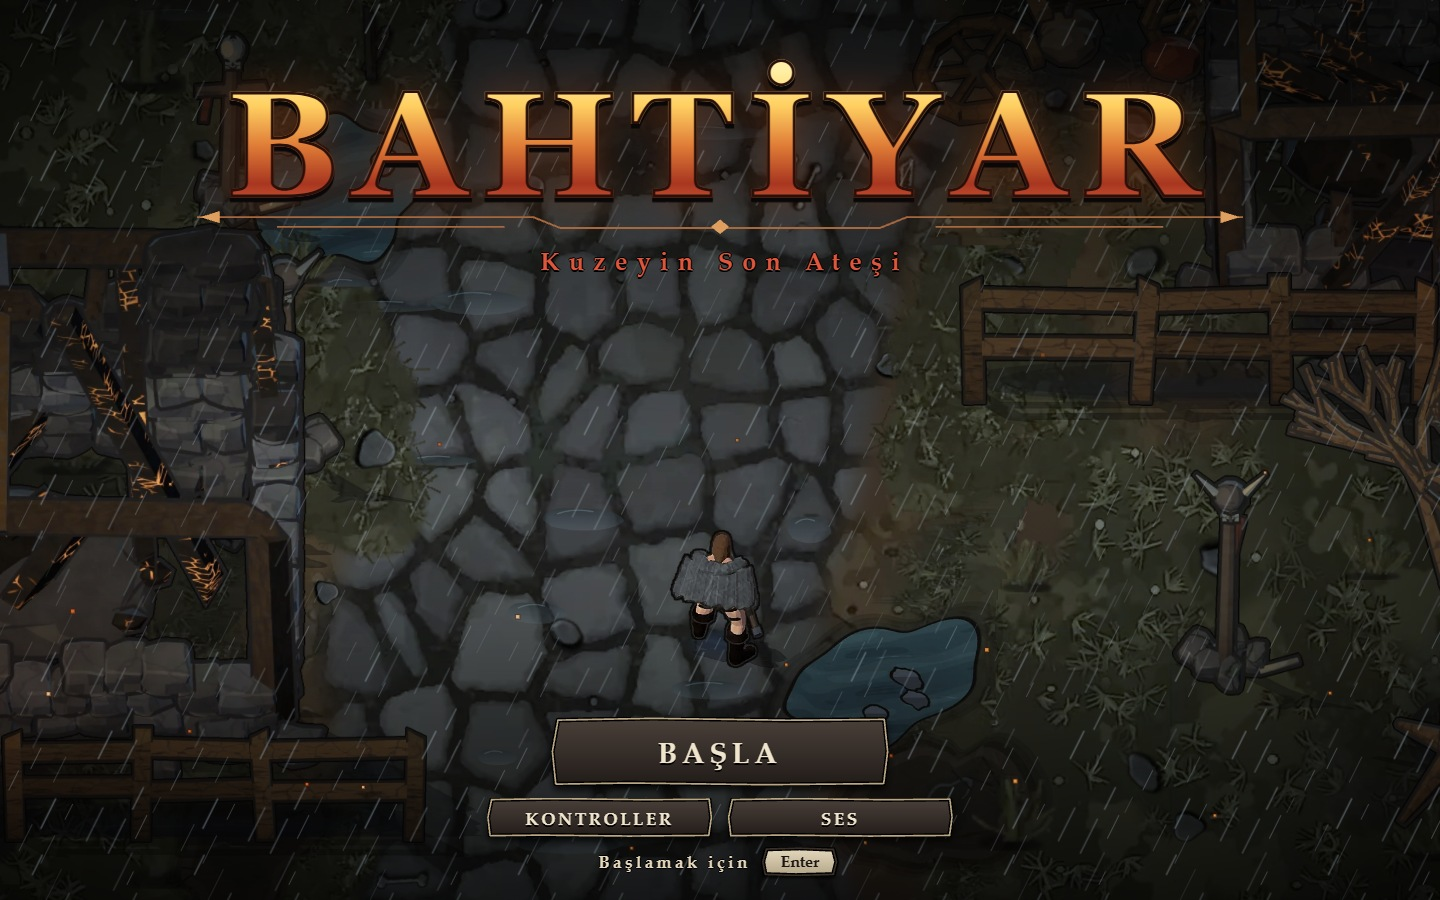
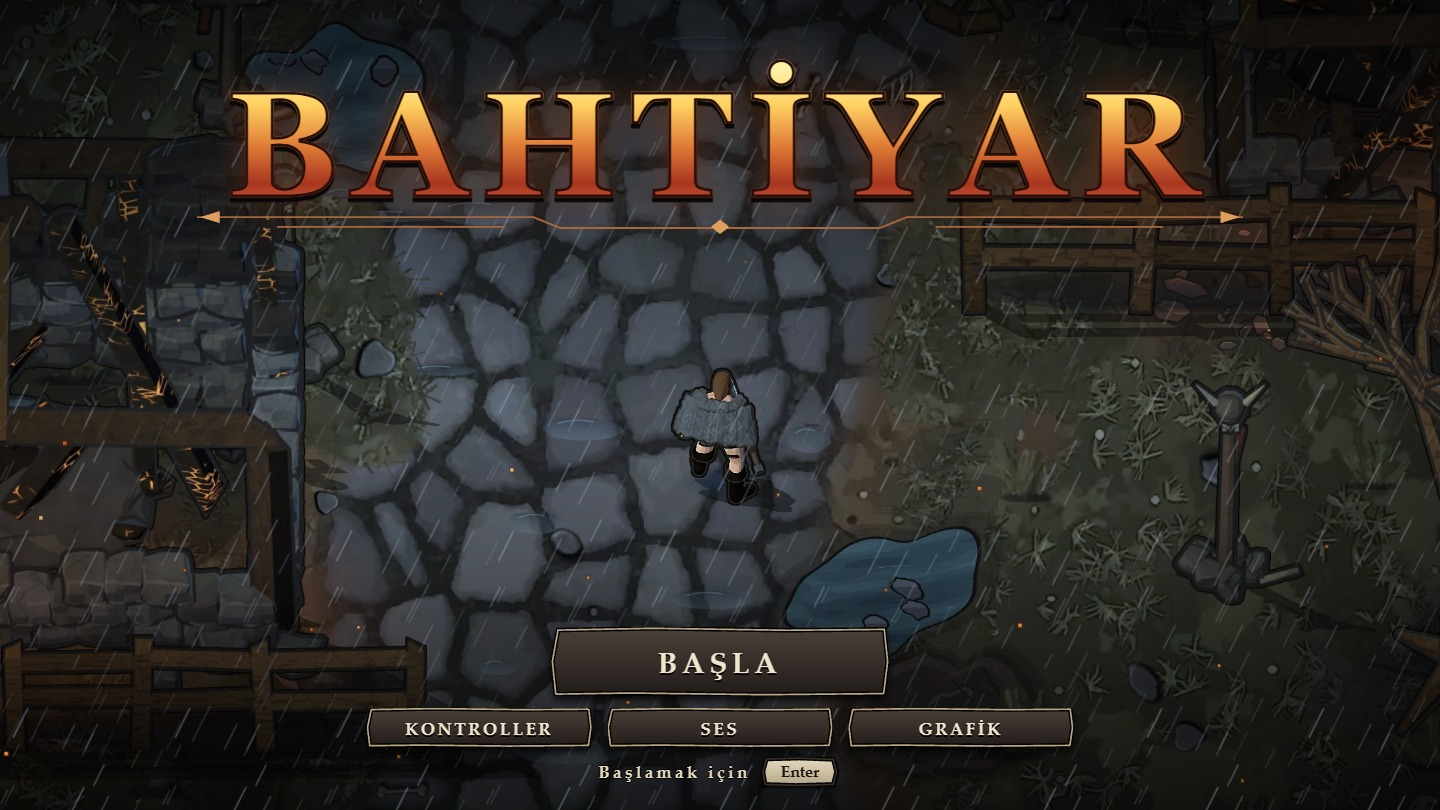
Bahtiyar başlığı ve molada önsöz haritası

diff --git a/src/arayuz.js b/src/arayuz.js
@@ -18,15 +18,15 @@
   var HIKAYE_METIN = {
     1: {
       baslik: 'BÖLÜM I — YANIK KÖY',
-      metin: 'Bahtiyar geceyi geçirmek için köye uğradı. Yıkık kilisenin önünde, küllere basmış çıplak ayakların izleri tekerlek izlerine karışıyordu. İkisi de Gormagul’un tuttuğu Kemik Çukuru’na doğru gidiyordu.'
+      metin: 'Bahtiyar, kervanlara kış geçitlerinde yol gösteren bir savaşçıydı. Kafileyle Yanık Köy’de buluşacak, onları dağın öte yanına geçirecekti. Vardığında evler yanmış, meydan boştu. Yıkık kilisenin önündeki taze tekerlek izleri Gormagul’un tuttuğu Kemik Çukuru’na uzanıyordu.'
     },
     2: {
       baslik: 'BÖLÜM II — KÜL GEÇİDİ',
-      metin: "Tekerlek izleri Vargor’un madenine kadar uzanıyordu. Ocak başında, kapıları açık kafesler duruyordu. Kafile buradan geçmişti. Son arabalar, demir daha soğumadan kuzey yoluna çıkmıştı."
+      metin: 'Kemik Çukuru’ndan çıkan izler Vargor’un madenine kadar uzanıyordu. Ocakların yanında açık kafesler, taşta sürüklenmiş zincir izleri vardı. Kafileyi taşıyan arabalar kuzey yoluna çıkmıştı. O yolun sonunda Ayaz Hisarı vardı.'
     },
     3: {
       baslik: 'BÖLÜM III — AYAZ HİSARI',
-      metin: 'Köylüler hisarın avlusunda zincire vurulmuştu. Tepedeki işaret ateşi, Kül Sürüsü’nün kış ordusuna geçidin açık olduğunu bildiriyordu. Bahtiyar’ın, ordu dağa varmadan kafesleri açıp ateşi söndürmesi gerekiyordu.'
+      metin: 'Bahtiyar kafileyi hisarın avlusunda buldu. Sağ kalanlar Skarn’ın askerleri arasında zincire vurulmuştu. Gün ağardığında arabalar kuzeye yola çıkacaktı. Bahtiyar’ın önce tutsakları hisardan sağ çıkarması gerekiyordu.'
     }
   };
   var hikayeGorulen = {};
@@ -430,7 +430,6 @@
         '<path d="M33 143h223l18 9h212l18-9h223 M86 151h151m286 0h151" stroke="#a66940"/>' +
         '<path d="M35 143l13-5v10zm690 0l-13-5v10zM374 151l6-6 6 6-6 6z" fill="#e0a060"/>' +
       '</svg><span>BAHTİYAR</span>');
-    $('div', 'ar-alt-ad', bu, 'Kuzeyin Son Ateşi');
     var m = $('div', 'ar-menu', b);
     var bKontrol, bSes, bGrafik;
     bBasla = dugme(m, 'BAŞLA', basla, 'ana');
@@ -457,6 +456,7 @@
     var molaGovde = $('div', 'ar-mola-govde', molaKart);
     var pm = $('div', 'ar-menu ar-mola-menu', molaGovde), mKontrol, mSes, mGrafik;
     dugme(pm, 'DEVAM ET', function () { durumYap('oyun'); }, 'ana');
+    haritaDugmesi(pm);
     dugme(pm, 'BÖLÜMÜ YENİDEN BAŞLAT', yenidenBasla);
     dugme(pm, 'OYUNUN BAŞINA DÖN', function () { el.baslangicOnayi.showModal(); });
     var molaSekmeler = $('div', 'ar-mola-sekmeler', pm);
@@ -468,6 +468,7 @@
     panelDugmesi(mSes, molaSesDugme, 'ar-mola-ses');
     panelDugmesi(mGrafik, molaGrafikDugme, 'ar-mola-grafik');
     perdeler.mola._paneller = [mKontrol, mSes, mGrafik];
+    haritaKur(kok.parentNode);
 
     el.baslangicOnayi = $('dialog', 'ar-baslangic-onay', kok.parentNode);
     el.baslangicOnayi.setAttribute('aria-labelledby', 'ar-baslangic-baslik');
@@ -586,6 +587,98 @@
   function yenidenBasla() {
     sesiAc();
     if (O() && O().yenidenBasla) O().yenidenBasla(); else durumYap('oyun');
+  }
+
+  var HARITA_ANAHTAR = 'barbar-harita-onsoz';
+  var haritaTamamlanan = 0, haritaSecili = 1;
+  var HARITA_DURAK = [
+    { x: 25, y: 73.8, sira: 'I', goruntu: 'yanik-koy' },
+    { x: 45.5, y: 54.8, sira: 'II', goruntu: 'kul-gecidi' },
+    { x: 78.5, y: 29.5, sira: 'III', goruntu: 'ayaz-hisari' }
+  ];
+  function haritaDugmesi(ebeveyn) {
+    var b = dugme(ebeveyn, 'HARİTA VE HİKÂYE', haritaAc);
+    b.setAttribute('aria-haspopup', 'dialog');
+    b.setAttribute('aria-controls', 'ar-onsoz-harita');
+  }
+  function haritaKur(ebeveyn) {
+    try {
+      var kayit = Number(localStorage.getItem(HARITA_ANAHTAR));
+      if (Number.isInteger(kayit) && kayit >= 0 && kayit <= 3) haritaTamamlanan = kayit;
+    } catch (e) { /* kayıt isteğe bağlı */ }
+    var pencere = el.harita = $('dialog', 'ar-harita', ebeveyn);
+    pencere.id = 'ar-onsoz-harita';
+    pencere.setAttribute('aria-labelledby', 'ar-harita-baslik');
+    var baslik = $('header', 'ar-harita-ust', pencere);
+    var basliklar = $('div', '', baslik);
+    $('span', 'ar-harita-ust-yazi', basliklar, 'ÖNSÖZ HARİTASI');
+    $('h2', '', basliklar, 'Kuzeyin Son Ateşi').id = 'ar-harita-baslik';
+    el.haritaKapat = dugme(baslik, 'KAPAT', function () { pencere.close(); }, 'kucuk');
+    var icerik = $('div', 'ar-harita-icerik', pencere);
+    var arazi = $('div', 'ar-harita-arazi', icerik);
+    $('div', 'ar-harita-kuzey', arazi, 'K<br>↑').setAttribute('aria-hidden', 'true');
+    var yol = $('div', 'ar-harita-yol', arazi,
+      '<svg viewBox="0 0 100 100" preserveAspectRatio="none">' +
+      '<path d="M25 73.8 C28.5 72.7 32.5 73.8 34.2 70.8 S32.4 65.7 31.3 63.3 S34 58.6 37.4 57.3 S42.8 55.7 45.5 54.8"/>' +
+      '<path d="M45.5 54.8 C51 53.7 53 52.1 57.8 52.2 S61 48.9 63.4 47.9 S74 43.8 72.2 41.4 S66.9 37.7 70.8 36.1 S77.4 34.8 77.4 32.6 S77.2 31.1 78.5 29.5"/></svg>');
+    yol.setAttribute('aria-hidden', 'true');
+    el.haritaYol = yol.querySelectorAll('path');
+    el.haritaDuraklar = HARITA_DURAK.map(function (durak, i) {
+      var b = $('button', 'ar-harita-durak', arazi);
+      b.type = 'button';
+      b.style.left = durak.x + '%';
+      b.style.top = durak.y + '%';
+      b.setAttribute('aria-controls', 'ar-harita-kart');
+      $('span', 'ar-harita-isaret', b, durak.sira).setAttribute('aria-hidden', 'true');
+      $('span', 'ar-harita-etiket', b, BOLUM_ADI[i + 1]);
+      b.addEventListener('click', function () { haritaSecili = i + 1; haritaYaz(); });
+      return b;
+    });
+    var kart = el.haritaKart = $('article', 'ar-harita-kart', icerik);
+    kart.id = 'ar-harita-kart';
+    el.haritaGorsel = $('img', '', kart);
+    el.haritaGorsel.alt = '';
+    el.haritaDurum = $('span', 'ar-harita-durum', kart);
+    var metin = $('div', 'ar-harita-metin', kart);
+    metin.setAttribute('aria-live', 'polite');
+    el.haritaAd = $('h3', '', metin);
+    el.haritaMetin = $('p', '', metin);
+    el.haritaIlerleme = $('div', 'ar-harita-ilerleme', kart);
+  }
+  function haritaAc() {
+    if (!el.harita || el.harita.open) return;
+    var sonDurak = Math.min(3, haritaTamamlanan + 1);
+    haritaSecili = durum() === 'mola' ? Math.min(aktifBolum(), sonDurak) : sonDurak;
+    haritaYaz();
+    GIRDI.temizle();
+    el.harita.showModal();
+    el.haritaDuraklar[haritaSecili - 1].focus({ preventScroll: true });
+  }
+  function haritaYaz() {
+    var sonDurak = Math.min(3, haritaTamamlanan + 1);
+    el.haritaDuraklar.forEach(function (b, i) {
+      var no = i + 1, kilitli = no > sonDurak, bitti = no <= haritaTamamlanan;
+      b.classList.toggle('kilitli', kilitli);
+      b.setAttribute('aria-pressed', String(no === haritaSecili));
+      b.setAttribute('aria-label', BOLUM_ADI[no] + (kilitli ? ', kilitli' : bitti ? ', tamamlandı' : ', açık'));
+      b.firstElementChild.textContent = bitti ? '✓' : HARITA_DURAK[i].sira;
+    });
+    el.haritaYol.forEach(function (p, i) { p.classList.toggle('kilitli', i >= haritaTamamlanan); });
+    var kilitli = haritaSecili > sonDurak;
+    var gorsel = 'ekran/' + HARITA_DURAK[haritaSecili - 1].goruntu + '.jpg';
+    if (el.haritaGorsel.getAttribute('src') !== gorsel) el.haritaGorsel.src = gorsel;
+    el.haritaKart.classList.toggle('kilitli', kilitli);
+    el.haritaDurum.textContent = kilitli ? 'Kilitli' : haritaSecili <= haritaTamamlanan ? 'Tamamlandı' : 'Açık';
+    el.haritaAd.textContent = BOLUM_ADI[haritaSecili];
+    el.haritaMetin.textContent = kilitli
+      ? 'Önce ' + BOLUM_ADI[haritaSecili - 1] + ' bölümünü tamamla.'
+      : HIKAYE_METIN[haritaSecili].metin;
+    el.haritaIlerleme.textContent = haritaTamamlanan + ' / 3 bölüm tamamlandı';
+  }
+  function haritaBolumTamamla(no) {
+    if (O().atla || no <= haritaTamamlanan) return;
+    haritaTamamlanan = no;
+    try { localStorage.setItem(HARITA_ANAHTAR, String(no)); } catch (e) { /* kayıt isteğe bağlı */ }
   }
 
   function hikayeYetenekYaz(no) {
@@ -1143,6 +1236,7 @@
     if (!kok) return;
     if (d === sonDurum) return;
     var onceki = sonDurum; sonDurum = d;
+    if (el.harita?.open && d !== 'baslik' && d !== 'mola') el.harita.close();
     document.body.className = document.body.className.replace(/\bd-\w+/g, '').trim() + ' d-' + d;
     Object.keys(perdeler).forEach(function (k) {
       var g = k !== d;
@@ -1177,6 +1271,7 @@
       ozetYaz(el.olduOzet, os);
     }
     if (d === 'kazandi') {
+      haritaBolumTamamla(aktifBolum());
       zaferHazirla();
       var zs = [[sureYazi(ist.sure), 'Süre'], [ist.oldurme, 'Öldürülen'], [Math.round(ist.hasar), 'Alınan hasar']];
       if (ist.enSeri >= 3) zs.push(['×' + ist.enSeri, 'En uzun seri']);
@@ -1192,6 +1287,11 @@
   /* ───────── klavye ve hikâye geçişi ───────── */
   var sonKlavye = 0;
   document.addEventListener('keydown', function (e) {
+    if (el.harita?.open) {
+      e.stopImmediatePropagation();
+      if (e.key === 'Escape') { e.preventDefault(); el.harita.close(); }
+      return;
+    }
     if (tusSecimi && e.code !== 'Tab') {
       e.preventDefault(); e.stopImmediatePropagation();
       if (e.repeat || e.metaKey || e.ctrlKey || e.altKey) return;
@@ -1278,7 +1378,7 @@
       } else secim.yazi.textContent = 'Yön tuşları hareket ve menü için ayrıldı.';
       return;
     }
-    var d = durum(), pencere = el.baslangicOnayi;
+    var d = durum(), pencere = el.harita.open ? el.harita : el.baslangicOnayi;
     if (no === 1 || no === 9 || (d === 'mola' && GIRDI.padEylemi(no) === 'esc' && no > 1 && no < 12)) {
       if (pencere.open) { pencere.close(); return; }
       var acik = (perdeler[d]?._paneller || []).find(function (panel) { return !panel.classList.contains('gizli'); });

diff --git a/style.css b/style.css
@@ -55,9 +55,8 @@ body.d-oyun, body.d-oyun #sahne, body.d-oyun canvas {
   font: 700 clamp(34px, 8vw, 68px)/1 Georgia, serif;
   letter-spacing: .105em;
 }
-.acilis-kart > span { display: block; font-size: clamp(14px, 3.5vw, 20px); color: #cb9478; }
 .acilis-kart .acilis-durum {
-  position: relative; margin: 23px auto 0; padding-top: 13px;
+  display: block; position: relative; margin: 23px auto 0; padding-top: 13px;
   color: #cabba4; font-size: 14px;
 }
 .acilis-durum::before {
@@ -214,7 +213,6 @@ body.d-oyun, body.d-oyun #sahne, body.d-oyun canvas {
   position: absolute; inset: -7% -7%; width: 114%; height: 114%;
   pointer-events: none;
 }
-.ar-perde.baslik .ar-alt-ad { animation: ar-belir .8s ease-out .6s both; }
 /* yükselen közler: keskin küçük kareler, yalnız kaydırma + saydamlık */
 .ar-koz { position: absolute; inset: 0; overflow: hidden; pointer-events: none; }
 .ar-koz i {
@@ -238,10 +236,6 @@ body.d-oyun, body.d-oyun #sahne, body.d-oyun canvas {
   40% { transform: translate3d(-16px, -240px, 0); }
   75% { transform: translate3d(8px, -440px, 0); opacity: .6; }
   100% { transform: translate3d(-4px, -600px, 0); opacity: 0; }
-}
-.ar-alt-ad {
-  margin-top: 16px; font-size: 22px; font-weight: bold; letter-spacing: .38em; padding-left: .38em; color: #e0563c;
-  text-shadow: 0 2px 0 #000, 1px 0 0 #000, -1px 0 0 #000, 0 -1px 0 #000;
 }
 .ar-kilic { width: 520px; height: 26px; margin: 10px 0 14px; }
 .ar-menu { display: flex; flex-direction: column; align-items: center; }
@@ -897,3 +891,57 @@ body.d-mola .ar-uyari, body.d-mola .ar-ipucu, body.d-mola .ar-hikaye, body.d-mol
 .ar-pad-baglanti { margin: 0 0 3px; color: #efd5a5; font-size: 14px; }
 .ar-pad-baglanti + .ar-tus-fare { margin: 0 0 9px; }
 .kontrolcu-kullaniliyor #arayuz button:focus { outline: 2px solid #ecc790; outline-offset: 2px; }
+
+/* Önsöz haritası */
+.ar-harita {
+  width: min(1320px, calc(100vw - 34px)); max-width: none;
+  max-height: calc(100dvh - 28px); margin: auto; padding: clamp(10px, 1.6vw, 22px);
+  color: #f0e1c8; font-family: var(--yazi);
+  border: 1px solid #a88359; border-radius: 4px;
+  background: linear-gradient(140deg, #33251f, #181413 66%);
+  box-shadow: 0 16px 60px #000c, inset 0 0 0 4px #231913;
+  overflow: auto; pointer-events: auto;
+}
+.ar-harita::backdrop { background: #0a0807db; }
+.ar-harita-ust { display: flex; align-items: center; justify-content: space-between; gap: 12px; padding: 1px 1px 14px; }
+.ar-harita-ust-yazi, .ar-harita-durum { color: #e8aa77; font-weight: bold; letter-spacing: .14em; font-size: 12px; text-transform: uppercase; }
+.ar-harita-ust h2 { font-size: clamp(24px, 3vw, 42px); margin: 4px 0 0; font-weight: normal; text-shadow: 0 2px 2px #130d0a; }
+.ar-harita-ust .ar-dugme { width: auto; min-width: 80px; margin: 0; padding: 8px 13px; background: linear-gradient(#523427, #2c1d18); border: 1px solid #a17d5a; }
+.ar-harita-ust .ar-dugme:hover { background: #673521; }
+.ar-harita-icerik { display: grid; grid-template-columns: minmax(0, 2.4fr) minmax(245px, 1fr); gap: 13px; }
+.ar-harita-arazi { position: relative; aspect-ratio: 3/2; align-self: start; overflow: hidden;
+  background: #2b2520 url("varlik/onsoz-haritasi.webp") center / 100% 100% no-repeat;
+  border: 1px solid #947553; box-shadow: inset 0 0 0 3px #38291db0, inset 0 0 45px #17110ec4; }
+.ar-harita-yol, .ar-harita-yol svg { position: absolute; inset: 0; width: 100%; height: 100%; pointer-events: none; }
+.ar-harita-yol path { fill: none; stroke: #f4c68e; stroke-width: .48; stroke-dasharray: 1.1 .85; stroke-linecap: round; }
+.ar-harita-yol path.kilitli { opacity: .32; }
+.ar-harita-kuzey { position: absolute; top: 14px; left: 17px; text-align: center; font-weight: bold; line-height: 1.15; color: #ffe0aa; text-shadow: 0 2px 3px #000; }
+.ar-harita-durak { position: absolute; display: flex; align-items: center; flex-direction: column; gap: 5px;
+  padding: 0; border: 0; color: #fff0d5; background: none; font: bold 14px var(--yazi);
+  transform: translate(-50%, -17px); cursor: pointer; }
+.ar-harita-isaret, .ar-harita-etiket { background: linear-gradient(#513321, #2a1b14); border: 1px solid #d1a471; border-radius: 3px; text-shadow: 0 1px 2px #000; }
+.ar-harita-isaret { display: grid; place-items: center; width: 34px; height: 34px; border-width: 2px; box-shadow: 0 2px 6px #0009; }
+.ar-harita-etiket { display: block; padding: 4px 8px; white-space: nowrap; }
+.ar-harita-durak.kilitli span { background: #28221e; border-color: #8c7b69; color: #d9ccbe; }
+.ar-harita-durak[aria-pressed="true"] span, .ar-harita-durak:hover span { border-color: #ffe0a2; }
+.ar-harita-durak[aria-pressed="true"]:not(.kilitli) .ar-harita-isaret { background: #873d24; box-shadow: 0 0 14px #f2a4609c; }
+.ar-harita-durak:focus-visible { outline: 2px solid #ffe4af; outline-offset: 4px; }
+.ar-harita-kart { display: flex; flex-direction: column; min-width: 0; padding: 15px; border: 1px solid #785c42; background: linear-gradient(#2c201a, #1d1715); }
+.ar-harita-kart img { width: 100%; display: block; aspect-ratio: 2.22; object-fit: cover; border: 1px solid #674c37; margin-bottom: 15px; }
+.ar-harita-kart.kilitli img { filter: saturate(.3) brightness(.58); }
+.ar-harita-metin h3 { margin: 7px 0 10px; font-size: clamp(22px, 2.5vw, 34px); font-weight: normal; color: #ffdfb5; }
+.ar-harita-metin p { margin: 0 0 17px; font-size: clamp(15px, 1.25vw, 17px); line-height: 1.55; }
+.ar-harita-ilerleme { padding-top: 10px; margin-top: auto; color: #cdb698; font-size: 13px; border-top: 1px solid #654b37; }
+@media (max-width: 960px) {
+  .ar-harita-icerik { grid-template-columns: minmax(0, 1fr); }
+  .ar-harita-kart { display: grid; grid-template-columns: minmax(76px, 24%) minmax(0, 1fr); column-gap: 14px; }
+  .ar-harita-kart img { grid-column: 1; grid-row: 1 / 3; margin-bottom: 10px; }
+  .ar-harita-durum, .ar-harita-metin { grid-column: 2; }
+  .ar-harita-ilerleme { grid-column: 1 / -1; }
+}
+@media (max-width: 490px) {
+  .ar-harita { width: calc(100vw - 18px); }
+  .ar-harita-durak { gap: 3px; font-size: 11px; transform: translate(-50%, -13px); }
+  .ar-harita-isaret { width: 26px; height: 26px; }
+  .ar-harita-etiket { padding: 3px 4px; }
+}

diff --git a/index.html b/index.html
@@ -3,7 +3,7 @@
 <head>
 <meta charset="utf-8">
 <meta name="viewport" content="width=device-width, initial-scale=1">
-<title>Bahtiyar: Kuzeyin Son Ateşi</title>
+<title>Bahtiyar</title>
 <link rel="icon" href="data:,">
 <link rel="stylesheet" href="style.css">
 <script src="varlik/besteler.js" defer></script>
@@ -14,7 +14,6 @@
 <div id="acilis">
   <div class="acilis-kart">
     <strong>BAHTİYAR</strong>
-    <span>Kuzeyin Son Ateşi</span>
     <span class="acilis-durum" role="status">Hazırlanıyor…</span>
   </div>
 </div>

diff --git a/README.md b/README.md
@@ -1,10 +1,10 @@
-# Bahtiyar: Kuzeyin Son Ateşi 🪓
+# Bahtiyar 🪓
 
-Bahtiyar, sağanak altındaki Yanık Köy’de kayıp bir kafilenin izini bulur. İzler onu kızıl maden ocaklarına, oradan da kuzey ordusuna işaret veren karlı bir hisara götürür. Fare ve klavyeyle oynanan bu Türkçe aksiyon oyununda baltayı savurur, fırlatıp geri çağırır ve biriktirdiğin öfkeyi iki farklı güç için kullanırsın.
+Kış geçitlerinde kervanlara yol gösteren Bahtiyar, buluşmak için Yanık Köy’e vardığında kafileyi kayıp, köyü yanmış bulur. İzler onu kızıl maden ocaklarına, oradan da kuzey ordusuna işaret veren karlı bir hisara götürür. Fare ve klavyeyle oynanan bu Türkçe aksiyon oyununda baltayı savurur, fırlatıp geri çağırır ve biriktirdiğin öfkeyi iki farklı güç için kullanırsın.
 
 **Yetişkinler içindir (18+). Kan ve yoğun şiddet içerir.**
 
-**Oyna** · [Bahtiyar: Kuzeyin Son Ateşi](https://goktugkarpat.github.io/bahtiyar-kuzeyin-son-atesi/)
+**Oyna** · [Bahtiyar](https://goktugkarpat.github.io/bahtiyar-kuzeyin-son-atesi/)
 
 ![Yanık Köy'deki yağmurlu açılış ekranı](ekran/baslik.jpg)
 
@@ -52,6 +52,7 @@ Başlık ve mola ekranındaki **Grafik** menüsünde iki seçenek bulunur. **Tem
 - Yanık Köy’de savur ve atıl. Kül Geçidi’nde baltayı fırlatıp geri çağırabilir ve ağır vuruş yapabilirsin.
 - Ayaz Hisarı’nda isabet aldığında veya vurduğunda öfke birikir. **Savaş Öfkesi** tam dolu çubuğu kullanır. Üçüncü bölümde açılan **Kasırga**, X’i basılı tuttuğun sürece aynı çubuktan harcar. Dönerken hareket edebilirsin.
 - Şifa iksirleri düşmanlardan çıkar. Lav ve ateş alanlarının kenarından dolaş. Bölüm sonu düşmanını yenince sonuç ekranından sonraki bölüme geç.
+- Mola menüsündeki **Harita ve Hikâye** düğmesi **Kuzeyin Son Ateşi** önsözünün rotasını açar. Bölümleri bitirdikçe sonraki durağın hikâye kartına erişirsin.
 - Mola menüsünden bulunduğun bölümü yeniden başlatabilir veya onay verip Yanık Köy’e dönebilirsin. Ana ses, efekt ve müzik ayrı ayarlanır.
 
 ## Müzik
